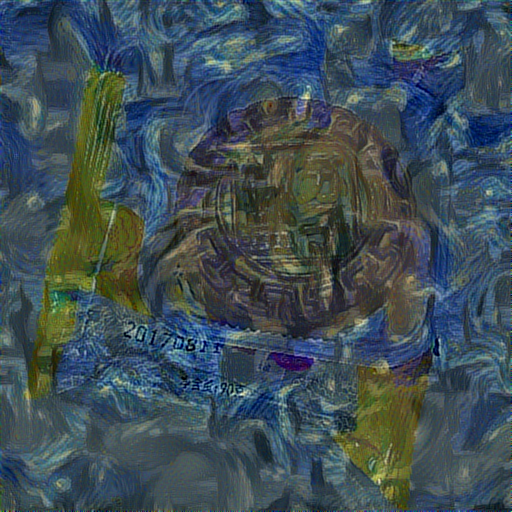
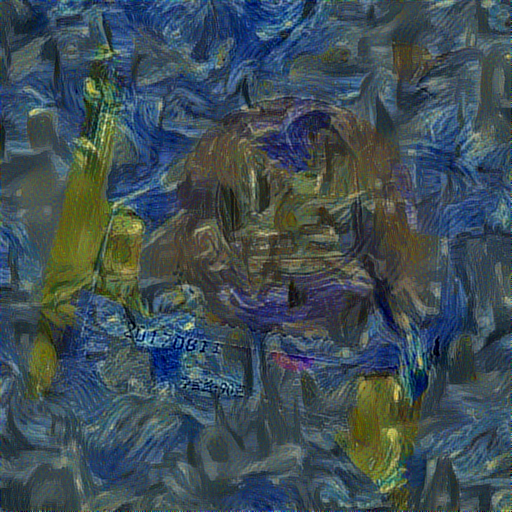
adjust image

diff --git a/tensorflow/model.py b/tensorflow/model.py
@@ -14,7 +14,7 @@ epoch = 10
 content_weight = 0.0025
 style_weight = 10.0
 total_variation_weight = 0.1
-layer_name = 'block5_conv3'
+layer_name = 'block1_conv2'
 
 
 def total_loss(x):
@@ -66,7 +66,7 @@ content_image_features = layer_features[1, :, :, :]
 combination_features = layer_features[2, :, :, :]
 loss += content_weight * content_loss(content_image_features, combination_features)
 
-feature_layers = ['block1_conv2', 'block2_conv2', 'block3_conv3', 'block4_conv3', 'block5_conv3']
+feature_layers = ['block1_conv2', 'block2_conv2', 'block3_conv3']
 for layer_name in feature_layers:
    layer_features = layers[layer_name]
    style_features = layer_features[0, :, :, :]
@@ -128,4 +128,4 @@ res_image = np.clip(res_image, 0, 255).astype('uint8')
 
 image = Image.fromarray(res_image)
 # image.save("style_1.png")
-image.save("content/sample_5.png")
+image.save("content/sample_1.png")
